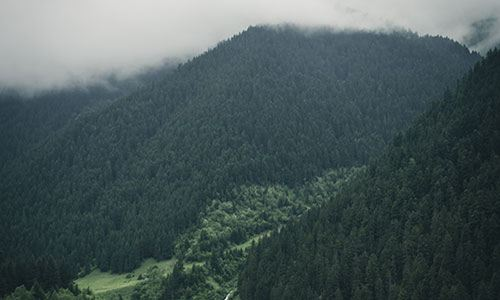
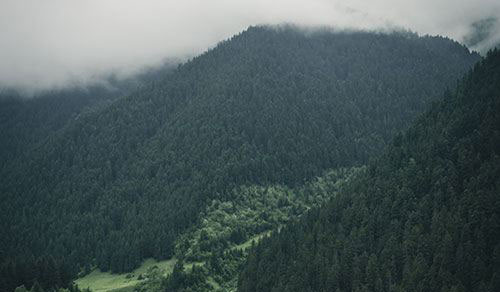
api loading

diff --git a/lesson10/js/weatherapi.js b/lesson10/js/weatherapi.js
@@ -3,22 +3,32 @@
 /* Soda Springs 5607916 */
 /* Fish Haven: 5585010  */
 
+var weekdayList = new Array();
+weekdayList.push.apply(weekdayList, ["Sun","Mon","Tue","Wed","Thur","Fri","Sat"]);
+
 const bodyClasses = document.body.classList;
 
 
 if(bodyClasses.contains("apiTest")) {
     var page = "apiTest";
-    var requestURL = "https://api.openweathermap.org/data/2.5/weather?id=5604473&appid=ee95bdb22401d075cd5b22ae078a154f";
+    var locationID = "5604473";
 }else if(bodyClasses.contains("preston") ) { 
-    var page = "preston";
-    var requestURL = "https://api.openweathermap.org/data/2.5/weather?id=5604473&appid=ee95bdb22401d075cd5b22ae078a154f";
+    var page = "Preston";
+    var locationID = "5604473";
 }else if(bodyClasses.contains("sodaSprings")) {
-    var page = "sodaSprings";
-    var requestURL = "https://api.openweathermap.org/data/2.5/weather?id=5607916&appid=ee95bdb22401d075cd5b22ae078a154f";
+    var page = "SodaSprings";
+    var requestURL = "5607916";
 } else if(bodyClasses.contains("fishHaven")) {
-    var page = "fishHaven";
-    var requestURL = "https://api.openweathermap.org/data/2.5/weather?id=5585010&appid=ee95bdb22401d075cd5b22ae078a154f";
+    var page = "FishHaven";
+    var requestURL = "5585010";
 }
+
+var requestURL = `https://api.openweathermap.org/data/2.5/weather?id=${locationID}&units=imperial&appid=ee95bdb22401d075cd5b22ae078a154f`;
+
+function windchill(temp, windSpeed) {
+    return Math.round(35.74 + 0.6215 * temp - 35.75 * Math.pow(windSpeed, 0.16) + 0.4275 * temp * Math.pow(windSpeed, 0.16));
+}
+
 
 fetch(requestURL)
     .then(function (response) {
@@ -36,27 +46,62 @@ fetch(requestURL)
                 document.getElementById('current').textContent = jsObject.weather[0].description;    
                 document.getElementById('icon').src = `https://openweathermap.org/img/w/${jsObject.weather[0].icon}.png`;
                 document.getElementById('icon').alt = jsObject.weather[0].description;                
-                document.getElementById('temp').textContent = jsObject.main.temp;
-                document.getElementById('humidity').textContent = jsObject.main.humidity;
-                document.getElementById('wind-speed').textContent = jsObject.wind.speed;
+                document.getElementById('temp').textContent = `${jsObject.main.temp}°F`;
+                document.getElementById('humidity').textContent = `${jsObject.main.humidity}%`;
+                document.getElementById('wind-speed').textContent = `${jsObject.wind.speed}mph`;
+                const windchillElement = document.querySelector("#wind-chill");
+                let temp = jsObject.main.temp;
+                let windSpeed = jsObject.wind.speed;
+                let chill = windchill(temp, windSpeed);
+                windchillElement.innerHTML = temp >= 50 ? "N/A" : chill + "°F";                
         }
     });
-/*
-    feels_like: 268.21
-humidity: 92
-pressure: 1025
-temp: 271.84
-temp_max: 274.26
-temp_min: 269.26
-__proto__: Object
-name: "Preston"
-sys: {type: 1, id: 4701, country: "US", sunrise: 1605622860, sunset: 1605657871}
-timezone: -25200
-visibility: 4828
-weather: [{…}]
-wind:
-deg: 74
-speed: 1.88
-__proto__: Object
-__proto__: Object
-*/
+
+    var requestURL = `https://api.openweathermap.org/data/2.5/forecast?id=5604473&units=imperial&appid=01c123b90547d5719b9721540f7c306f`
+    fetch(requestURL)
+    .then(function (response) {
+        return response.json();
+    })
+    .then((jsObject) => {
+        // console.log(jsObject);
+        var fiveDay = [];
+        jsObject.list.forEach(forcastDay => {
+            if(forcastDay.dt_txt.includes("18:00:00")) {
+                fiveDay.push(forcastDay);
+            }            
+        });
+        // console.log(fiveDay);
+
+    const fiveDayContainer = document.querySelector('.five-day');
+
+    fiveDay.forEach(forcastDay =>{
+        let dayContainer = document.createElement("div");
+        dayContainer.classList.add("forcast-day");
+
+        thedate = new Date(forcastDay.dt_txt);
+        let dayWeekday = document.createElement("div");
+        dayWeekday.classList.add("day-of-week")
+        dayWeekday.textContent = weekdayList[thedate.getDay()];
+        let imageIcon = document.createElement("img");
+        imageIcon.src = `https://openweathermap.org/img/w/${forcastDay.weather[0].icon}.png`;
+        imageIcon.alt = forcastDay.weather[0].description;
+
+        let weatherType = document.createElement("p");
+        weatherType.innerHTML = forcastDay.weather[0].description;      
+
+        let dayTempLabel = document.createElement("p");
+        dayTempLabel.textContent = "Temp: "
+        let dayTemp = document.createElement("p")
+        dayTemp.innerHTML = forcastDay.main.temp + "&deg;F";
+
+
+
+        fiveDayContainer.appendChild(dayContainer);
+        dayContainer.appendChild(dayWeekday);
+        dayContainer.appendChild(imageIcon);
+        dayContainer.appendChild(weatherType);        
+        dayContainer.appendChild(dayTempLabel);
+        dayContainer.appendChild(dayTemp);
+    })
+
+});

diff --git a/lesson10/preston-10.html b/lesson10/preston-10.html
@@ -50,17 +50,16 @@
         <section class="hero-box">
             <picture>
                 <source media="(max-width:600px)"
-                    srcset="images/prestonsm.jpg">
+                    srcset="images/prestonherosm.jpg">
                 <source media="(max-width: 1026px) and (min-width: 601px)"
                     srcset="images/prestonsm.jpg">
-                <img src="images/preston.jpg"
+                <img src="images/prestonhero.jpg"
                     alt="Sunny landscape picture">
             </picture>
             <div class="weather-summary">
                 <h3>Weather Summary</h3>
                 <ul>
-                    <li>Currently: <span id="current">Unknown</span></li>
-                    <li><img src="" alt="" id="icon" /></li>
+                    <li>Current: <span id="current">Unknown</span><img src="" alt="" id="icon" /></li>
                     <li>Temp: <span id="temp">Unknown</span></li>
                     <li>Wind Chill: <span id="wind-chill">Unknown</span></li>
                     <li>Humidity: <span id="humidity">Unknown</span></li>
@@ -70,78 +69,7 @@
             </div>
         </section>
         <section class="detailed-weather">
-            <div class="five-day">
-                <h3>Five Day Forecast</h3>
-                <div class="five-forecast">
-                    <div class="forcast-day">
-                        <p><img src="images/rain.png" alt="rain"><span
-                                class="day-of-week">Mon</span></p>
-                        <hr>
-                        <div class="five-content">
-                            <p><strong>Rain</strong></p>
-                            <p>High <span>58&deg;</span></p>
-                            <p>Low <span>50&deg;</span></p>
-                            <p>Barometric <span>38inHg</span></p>
-                            <p>Humidity <span>100%</span></p>
-                            <p>A little wet</p>
-                        </div>
-                    </div>
-                    <div class="forcast-day">
-                        <p><img src="images/partial.png"
-                                alt="Partly Cloudy"><span
-                                class="day-of-week">Tue</span></p>
-                        <hr>
-                        <div class="five-content">
-                            <p><strong>Partly Cloudy</strong></p>
-                            <p>High <span>64&deg;</span></p>
-                            <p>Low <span>58&deg;</span></p>
-                            <p>Barometric <span>38inHg</span></p>
-                            <p>Humidity <span>52%</span></p>
-                            <p>Where did the sun go?</p>
-                        </div>
-                    </div>
-                    <div class="forcast-day">
-                        <p><img src="images/sunny.png" alt="sunny"><span
-                                class="day-of-week">Wed</span></p>
-                        <hr>
-                        <div class="five-content">
-                            <p><strong>Sunny</strong></p>
-                            <p>High <span>72&deg;</span></p>
-                            <p>Low <span>64&deg;</span></p>
-                            <p>Barometric <span>38inHg</span></p>
-                            <p>Humidity <span>48%</span></p>
-                            <p>Hot Hot Hot</p>
-                        </div>
-                    </div>
-                    <div class="forcast-day">
-                        <p><img src="images/drizzle.png"
-                                alt="drizzle"><span
-                                class="day-of-week">Thu</span></p>
-                        <hr>
-                        <div class="five-content">
-                            <strong>Drizzle</strong>
-                            <p>High <span>64&deg;</span></p>
-                            <p>Low <span>58&deg;</span></p>
-                            <p>Barometric <span>38inHg</span></p>
-                            <p>Humidity <span>98%</span></p>
-                            <p>Almost misty</p>
-                        </div>
-                    </div>
-                    <div class="forcast-day">
-                        <p><img src="images/rain.png" alt="rain"><span
-                                class="day-of-week">Fri</span></p>
-                        <hr>
-                        <div class="five-content">
-                            <p><strong>Rain</strong></p>
-                            <p>High <span>60&deg;</span></p>
-                            <p>Low <span>55&deg;</span></p>
-                            <p>Barometric <span>38inHg</span></p>
-                            <p>Humidity <span>100%</span></p>
-                            <p>More rain?</p>
-                        </div>
-                    </div>
-                </div>
-            </div>
+            <div class="five-day"></div>
             <article>
                 <h4>Holiday Craft Fair</h4>
                 <div class="article-content">

diff --git a/lesson10/css/small.css b/lesson10/css/small.css
@@ -165,10 +165,14 @@ main>h2 {
     height: auto;
     color: var(--dark-1);
     width: 100%;
-    padding: 20px;
+    padding: 0 5px;
     border: 3px solid #46786e;
     box-shadow: 0px 3px 9px 3px #000;
     border-radius: 5px;
+}
+
+.weather-summary li img{
+    vertical-align: middle;
 }
 
 .weather-summary>h3 {
@@ -187,6 +191,10 @@ main>h2 {
     margin: auto;
 }
 
+.weather-summary #current {
+    text-transform: capitalize;
+}
+
 .hero-box {
     position: relative;
 }
@@ -198,9 +206,9 @@ main>h2 {
 }
 
 .five-day {
-    background-image: url(../images/fiveday.jpg);
-    background-size: cover;
     color: #fff;
+    background-color: #1a3639;
+    padding: 30px 10px;
 }
 
 .five-day h3 {
@@ -215,33 +223,40 @@ main>h2 {
 
 .forcast-day {
     background-color: rgba(53, 100, 116, .75);
-    margin: 15px 5px;
-    padding: 0 25px 25px;
-    border: 3px solid #0b2027;
+    padding: 10px 25px 25px;
+    border: 3px solid #fff;
     border-top-left-radius: 30px;
     border-top-right-radius: 15px;
     position: relative;
+    display: grid;
+    grid-template: 1fr / 1fr 1fr;
+    align-items: center;
+    margin: 20px 0;    
 }
 
-.forcast-day>p>img {
-    width: 50px;
+.forcast-day img {
+    width: 70px;
     display: block;
+}
+
+.forcast-day>div>p {
+    text-align: right;
+    text-transform: capitalize;
+    margin-top: 0;
 }
 
 .forcast-day:nth-child(even) {
     background-color: rgba(11, 32, 39, .75);
-    border: 3px solid #0b2027;
     border-top-left-radius: 30px;
     border-top-right-radius: 15px;
 }
 
-.forcast-day>p>span {
-    float: right;
-}
 
-.forcast-day>p>.day-of-week {
-    position: relative;
-    top: -20px;
+.day-of-week {
+    grid-column: 1/3;
+    text-align: center;
+    padding: 10px 0;
+    border-bottom: 4px double #fff;    
 }
 
 #friday-notice {
@@ -327,19 +342,7 @@ footer .social-media>li:first-of-type {
 
 .footer-cta>p>a {
     position: relative;
-    margin-left: 20px;
 }
-
-.footer-cta>p>a::before {
-    content: "";
-    position: absolute;
-    height: 30px;
-    width: 30px;
-    background-size: cover;
-    left: -40px;
-}
-
-
 
 footer .address {
     display: none;

diff --git a/lesson10/css/medium.css b/lesson10/css/medium.css
@@ -70,9 +70,9 @@
 
     .weather-summary {
         position: absolute;
-        top: 20px;
+        top: 5px;
         left: 30px;
-        min-height: 300px;
+        min-height: 200px;
         height: auto;
         width: auto;
         border-radius: 15px;
@@ -85,8 +85,10 @@
         border-color: #fffdf0;
     }
 
-    .five-forecast {
-        grid-template: 1fr / repeat(5, 1fr);
+    .five-day {
+        display: grid;
+        grid-template-columns: repeat(2,1fr);
+        grid-gap: 10px;
     }
 
     .preston article {
@@ -123,6 +125,16 @@
 
     .footer-cta>p>a {
         margin-left: 0;
+    }
+
+    
+    .footer-cta>p>a::before {
+        content: "";
+        position: absolute;
+        height: 30px;
+        width: 30px;
+        background-size: cover;
+        left: -40px;
     }
 
 

diff --git a/lesson10/css/large.css b/lesson10/css/large.css
@@ -107,5 +107,11 @@
         border-bottom-right-radius: 0;
         width: auto;
     }    
+    .five-day {
+        display: grid;
+        grid-template-columns: repeat(5,1fr);
+        grid-gap: 10px;
+    }
+
   
 }
